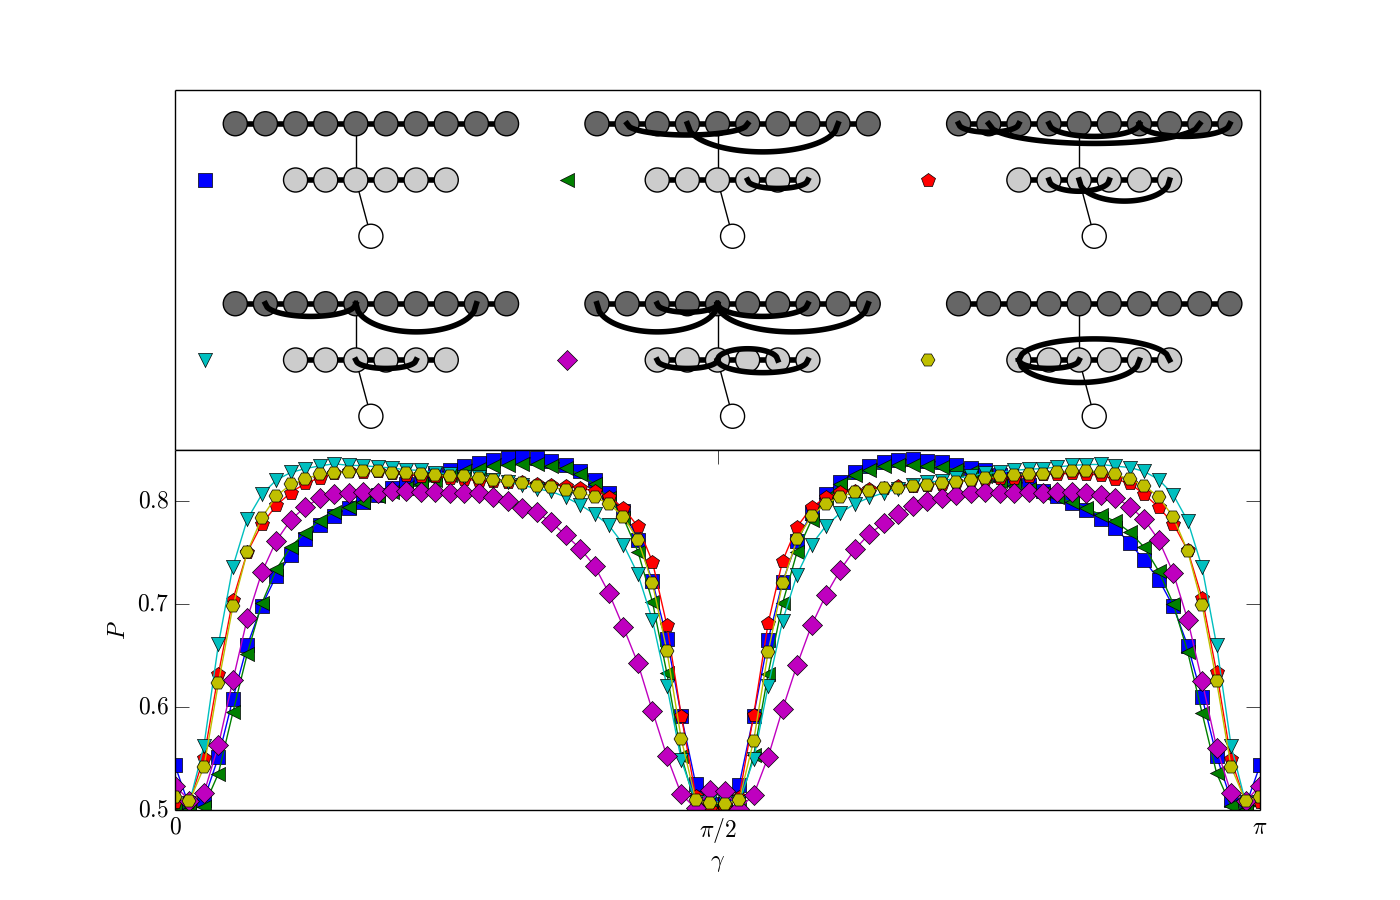
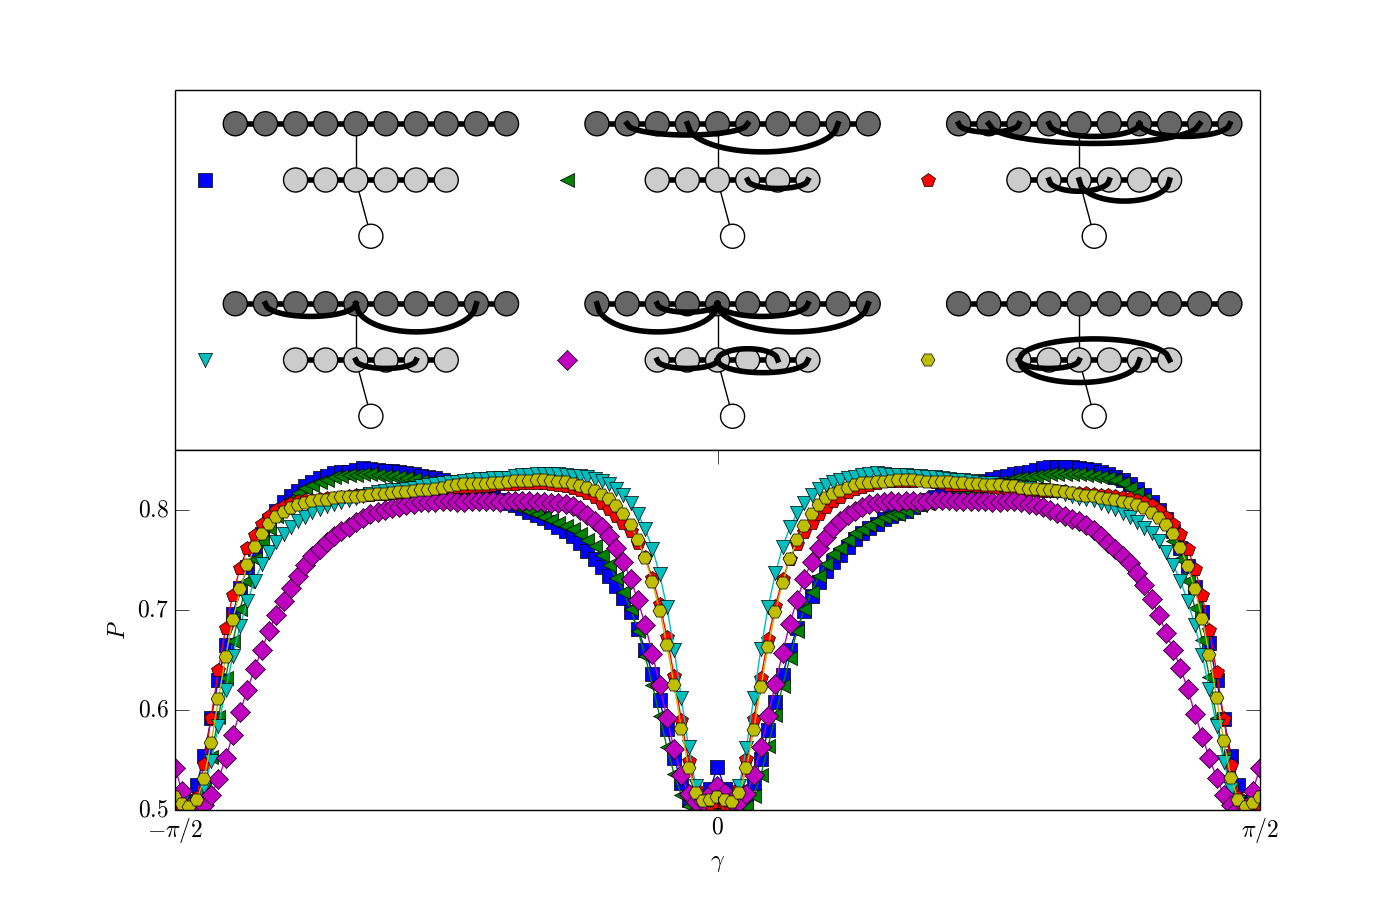
Last figs update

Changed region(s): [[0.0921, 0.4978, 0.9214, 0.9333], [0.0921, 0.5289, 0.1229, 0.5911], [0.0921, 0.6533, 0.1229, 0.6844]]

diff --git a/g2-saveme.py b/g2-saveme.py
@@ -3,31 +3,35 @@ import os
 
 
 
-#OBTENER DATOS
+##OBTENER DATOS
 
 #dat_i=".dat"
-#comando = "./abc -o purity_gamma -q 17 --x 6 --model model3_open_op1 --Jc 0.01 --Jp 1. --Js 1. --DJs 0. --bx 1. --bz 1. --Dbs 0. --t 1000 --Cseed -1 --Eseed 3462 --PARAMseed 0  > grafica2-3PATEADO-1-"
+#comando = "./abc -o purity_gamma -q 17 --x 6 --model model3_open_op1 --Jc 0.01 --Jp 1. --Js 1. --DJs 0. --bx 1. --bz 1. --Dbs 0. --t 1000 --Cseed -1 --Eseed 3462 --PARAMseed 0  > grafica2-3-1-"
 #os.system(comando + dat_i)
 
-#comando = "./abc -o purity_gamma -q 17 --x 6 --model model3_open_op2 --Jc 0.01 --Jp 1. --Js 1. --DJs 0. --bx 1. --bz 1. --Dbs 0. --t 1000 --Cseed -1 --Eseed 3462 --PARAMseed 0  > grafica2-3PATEADO-2-"
+#comando = "./abc -o purity_gamma -q 17 --x 6 --model model3_open_op2 --Jc 0.01 --Jp 1. --Js 1. --DJs 0. --bx 1. --bz 1. --Dbs 0. --t 1000 --Cseed -1 --Eseed 3462 --PARAMseed 0  > grafica2-3-2-"
 #os.system(comando + dat_i)
 
-#comando = "./abc -o purity_gamma -q 17 --x 6 --model model3_open_op3 --Jc 0.01 --Jp 1. --Js 1. --DJs 0. --bx 1. --bz 1. --Dbs 0. --t 1000 --Cseed -1 --Eseed 3462 --PARAMseed 0  > grafica2-3PATEADO-3-"
+#comando = "./abc -o purity_gamma -q 17 --x 6 --model model3_open_op3 --Jc 0.01 --Jp 1. --Js 1. --DJs 0. --bx 1. --bz 1. --Dbs 0. --t 1000 --Cseed -1 --Eseed 3462 --PARAMseed 0  > grafica2-3-3-"
 #os.system(comando + dat_i)
 
-#comando = "./abc -o purity_gamma -q 17 --x 6 --model model3_open_op4 --Jc 0.01 --Jp 1. --Js 1. --DJs 0. --bx 1. --bz 1. --Dbs 0. --t 1000 --Cseed -1 --Eseed 3462 --PARAMseed 0  > grafica2-3PATEADO-4-"
+#comando = "./abc -o purity_gamma -q 17 --x 6 --model model3_open_op4 --Jc 0.01 --Jp 1. --Js 1. --DJs 0. --bx 1. --bz 1. --Dbs 0. --t 1000 --Cseed -1 --Eseed 3462 --PARAMseed 0  > grafica2-3-4-"
 #os.system(comando + dat_i)
 
-#comando = "./abc -o purity_gamma -q 17 --x 6 --model model3_open_op5 --Jc 0.01 --Jp 1. --Js 1. --DJs 0. --bx 1. --bz 1. --Dbs 0. --t 1000 --Cseed -1 --Eseed 3462 --PARAMseed 0  > grafica2-3PATEADO-5-"
+#comando = "./abc -o purity_gamma -q 17 --x 6 --model model3_open_op5 --Jc 0.01 --Jp 1. --Js 1. --DJs 0. --bx 1. --bz 1. --Dbs 0. --t 1000 --Cseed -1 --Eseed 3462 --PARAMseed 0  > grafica2-3-5-"
 #os.system(comando + dat_i)
 
-#comando = "./abc -o purity_gamma -q 17 --x 6 --model model3_open_op6 --Jc 0.01 --Jp 1. --Js 1. --DJs 0. --bx 1. --bz 1. --Dbs 0. --t 1000 --Cseed -1 --Eseed 3462 --PARAMseed 0  > grafica2-3PATEADO-6-"
+#comando = "./abc -o purity_gamma -q 17 --x 6 --model model3_open_op6 --Jc 0.01 --Jp 1. --Js 1. --DJs 0. --bx 1. --bz 1. --Dbs 0. --t 1000 --Cseed -1 --Eseed 3462 --PARAMseed 0  > grafica2-3-6-"
 #os.system(comando + dat_i)
   
   
 #DATOS
 #grafica2-1- para semicadena rara variando conexiones internas
 #grafica2-3- como 2-2 pero para 2PI
+  
+  
+  
+  
   
   
 #HACER grafica3
@@ -67,22 +71,22 @@ nod.nodos6(lines[5])
 
 fig.add_subplot(2,1,2)
 
-jps=linspace(0,2*pi,151)
+jps=linspace(-pi/2,pi/2,151)
 for i in range(1,7) :
-  a=loadtxt("grafica2-3PATEADO-"+str(i)+"-.dat")
+  a=loadtxt("grafica2-3-"+str(i)+"-.dat")
   plot(jps,a,lines[i-1],markevery=1,markersize=10)
 
   
 
 xlabel("$\gamma$",fontsize=17)
 
-xticks((0,pi/2,pi,(3/2.)*pi,2*pi),('$0$','$\pi/2$','$\pi$','$3/2\pi$','$2\pi$'),fontsize=17)
+xticks((-pi/2,0,pi/2),('$-\pi/2$','$0$','$\pi/2$'),fontsize=17)
 
 
 yticks((0.9,0.8,0.7,0.6,0.5),('$0.9$','$0.8$','$0.7$','$0.6$','$0.5$'),fontsize=17)
 ylabel("$P$",fontsize=17)
 
-axis([0,pi,0.69,.91])
+axis([-pi/2,pi/2,0.5,.86])
 #legend(loc='lower center',fontsize=25)
 
 tick_params(axis='both',          # changes apply to the x-axis
@@ -93,4 +97,4 @@ tick_params(axis='both',          # changes apply to the x-axis
     length=10)
 
 fig.subplots_adjust(hspace=0,wspace=0)
-savefig('art-g2-2PADEATO.png')
+savefig('art-g2-2.png')

diff --git a/gPlateau.py b/gPlateau.py
@@ -14,26 +14,29 @@ i=linspace(0,pi,151)
 lines=['s-','<-','p-','v-','D-','H-','D-','h-','>-','H-','d-','x-','s-','+-']
 
 
-#plot(i,a,lines[0],label='$\gamma=80\lambda$',markersize=10)
-plot(i,b,lines[2],label='$\gamma=100\lambda$',markersize=10)
-plot(i,c,lines[0],label='$|b|=\pi$',markersize=10)
-plot(i,d,lines[1],label='$|b|=\pi/2$',markersize=10)
+fig=figure(figsize=(9.8, 6.8)) # in inches!
 
-xlabel("$\gamma$",fontsize=17)
-#xticks((0,pi/2,pi,(3/2.)*pi,2*pi),('$0$','$\pi/2$','$\pi$','$3/2\pi$','$2\pi$','$\pi/\sqrt{2}$'),fontsize=17)
-#yticks((0.9,.91,.92,.88,.89),('$0.9$','$0.91$','$0.92$','$0.88$','$0.89$'),fontsize=17)
+plot(i,a,lines[0],label=r'$|\vec{b}|=2.2$',markersize=10,markevery=2)
+plot(i,b,lines[1],label=r'$|\vec{b}|=1.1$',markersize=10,markevery=2)
+plot(i,c,lines[2],label=r'$|\vec{b}|=\pi$',markersize=10,markevery=2)
+plot(i,d,lines[3],label=r'$|\vec{b}|=\pi/2$',markersize=10)
+
+xlabel(r"$\gamma$",fontsize=17)
+xticks((0,pi/2,pi,(3/2.)*pi,2*pi),('$0$','$\pi/2$','$\pi$','$3/2\pi$','$2\pi$','$\pi/\sqrt{2}$'),fontsize=17)
+#yticks((0.86,.87,.88,.89,.90,.91,.92),('$0.86$','$0.87$','$0.88$','$0.89$','$0.90$','$0.91$','$0.92$'),fontsize=17)
+yticks((1,0.9,0.8,0.7,0.6,0.5),('$1$','$0.9$','$0.8$','$0.7$','$0.6$','$0.5$'),fontsize=17)
 ylabel("$P$",fontsize=17)
 
-#legend(loc='upper right',fontsize=17)
+legend(loc='upper right',fontsize=17)
 
-#axis([0,2*pi+.1,.88,.91])
+axis([0,pi,.5,1])
 
-#tick_params(axis='both',          # changes apply to the x-axis
-    #which='both',      # both major and minor ticks are affected
-    #bottom='on',      # ticks along the bottom edge are off
-    #top='on',         # ticks along the top edge are off
-    #labelbottom='on',
-    #length=10)
+tick_params(axis='both',          # changes apply to the x-axis
+    which='both',      # both major and minor ticks are affected
+    bottom='on',      # ticks along the bottom edge are off
+    top='on',         # ticks along the top edge are off
+    labelbottom='on',
+    length=10)
 
 
-show()
+savefig('Plateau.png')

diff --git a/g1-2.py b/g1-2.py
@@ -7,10 +7,10 @@ import os
 
 #GAMAS BUENAS=[0.05,0.1,0.3,0.5,0.8,1.,1.4]
 #i=1
-#os.system("cp conexionesABC7.txt conexiones.txt " )
+##os.system("cp conexionesABC7.txt conexiones.txt " )
 #for gamma in [0.05,0.1,0.3,0.5,0.8,1.] :
   #dat_i=str(i)+".dat"
-  #comando = "./abc -o purity -q 17 --x 6 --model modelConexRandABC --Jc 0.01 --Jp "+str(gamma)+" --Js 1. --DJs 0. --bx 1. --bz 1. --Dbs 0 --t 2500 --Cseed -1 --Eseed 3462 --PARAMseed 9678  > grafica1-3-Cpatead2"
+  #comando = "./abc -o purity -q 17 --x 6 --model model3_open --Jc 0.01 --Jp "+str(gamma)+" --Js 1. --DJs 0. --bx 1. --bz 1. --Dbs 0 --t 2500 --Cseed -1 --Eseed 3462 --PARAMseed 9678  > grafica1-3-MU"
   #os.system(comando + dat_i)
   #print i
   #i+=1
@@ -38,7 +38,7 @@ import os
 
   
   
-#HACER grafica
+##HACER grafica
 import nodos as nod
 
 
@@ -56,7 +56,7 @@ labels=['$\gamma=5\lambda$','$\gamma=10\lambda$','$\gamma=30\lambda$','$\gamma=5
 
 #labels=['$N_e=6$','$N_e=9$','$N_e=12$','$N_e=15$','$\gamma=0.5$','$\gamma=1.$','$\gamma=140$']
 for i in range(1,7) :
-  a=loadtxt("grafica1-3-"+str(i)+".dat")
+  a=loadtxt("grafica1-3-Cpatead"+str(i)+".dat")
   plot(a,lines[i-1],markevery=60,label=labels[i-1],markersize=10)
 
 
@@ -68,9 +68,9 @@ ylabel("$P$",fontsize=17)
 #text(2000,0.7,'$b \perp J$',fontsize=28)
 #text(1000,0.7,'$\lambda=0.2$',fontsize=28)
 
-axis([0,2500.,0.48,1])
+axis([0,2500.,0.58,1])
 
-legend(loc='upper right',fontsize=17)
+legend(loc='lower left',fontsize=17)
 
 tick_params(axis='both',          # changes apply to the x-axis
     which='both',      # both major and minor ticks are affected
@@ -80,8 +80,8 @@ tick_params(axis='both',          # changes apply to the x-axis
     length=10)
 
 #INSET
-ax = axes([.28, .65, .43, .22])
-#ax = axes([.55, .1, .33, .22])
-nod.nodosABC_lamb_gamma_labels(conx,'-')
+#ax = axes([.28, .65, .43, .22])
+##ax = axes([.55, .1, .33, .22])
+#nod.nodosABC_lamb_gamma_labels(conx,'-')
 
-savefig('art-g1-3.png')
+savefig('Cpateado.png')

diff --git a/g4-2.py b/g4-2.py
@@ -19,12 +19,13 @@ import conexiones as conx
 #HACER grafica3
 fig=figure(figsize=(9, 6)) # in inches!
 
-lines=['o-','<-','p-','v-','+-','^-','h-','D-','>-','H-','d-','s-','x-','*-']
+lines=['bs-','g<-','rp-','cv-','mD-','yH-','D-','h-','>-','H-','d-','x-','s-','+-']
 
-
+cont = 0
 for i in [4,8,12,14] :
   a=loadtxt("grafica4-2-pt-"+str(i)+".dat")
-  plot(a,lines[i-1],markevery=60,label=r"$\nu="+str(i)+"$",markersize=10)
+  plot(a,lines[cont],markevery=60,label=r"$\nu="+str(i)+"$",markersize=10)
+  cont += 1
   
   
   
@@ -52,14 +53,15 @@ tick_params(axis='both',          # changes apply to the x-axis
 #INSET
 ax = axes([.55, .65, .33, .22])
 jps=linspace(0,pi/2,75)
-
+cont = 0
 for i in [4,8,12,14] :
   ains=loadtxt("grafica4-"+str(i)+".dat")
   jps2=jps/sqrt(i)
-  plot(jps2,ains,lines[i-1])
+  plot(jps2,ains,lines[cont],markersize=10)
   xticks((0,pi/16,pi/8),('$0$','$\pi/16$','$\pi/8$'),fontsize=17)
   yticks((0.9,0.8,0.7,0.6,0.5),('$0.9$','$0.8$','$0.7$','$0.6$','$0.5$'),fontsize=17)
   setp(ax, xlim=(0,pi/8))
+  cont += 1
   
 
 xlabel("$\gamma^{\prime}$",fontsize=17)

diff --git a/g4-2_ultimas.py b/g4-2_ultimas.py
@@ -33,7 +33,7 @@ lines=['bs-','g<-','rp-','cv-','mD-','yH-','D-','h-','>-','H-','d-','x-','s-','+
 cont = 1
 for i in [4,8,12,14] :
   a=loadtxt("grafica4-muerte"+str(cont)+".dat")
-  plot(a,lines[cont-1],markevery=60,label=r"$\nu="+str(i)+"$")
+  plot(a,lines[cont-1],markevery=60,label=r"$\nu="+str(i)+"$",markersize=10)
   cont += 1
   
   
@@ -67,7 +67,7 @@ cont=1
 for i in [4,8,12,14] :
   ains=loadtxt("grafica4-muerte-inset"+str(cont)+".dat")
   jps2=jps/sqrt(i)
-  plot(jps2,ains,lines[cont-1])
+  plot(jps2,ains,lines[cont-1],markersize=10,markevery=2)
   xticks((0,pi/16,pi/8),('$0$','$\pi/16$','$\pi/8$'),fontsize=17)
   yticks((0.9,0.8,0.7,0.6,0.5),('$0.9$','$0.8$','$0.7$','$0.6$','$0.5$'),fontsize=17)
   setp(ax, xlim=(0,pi/8))
